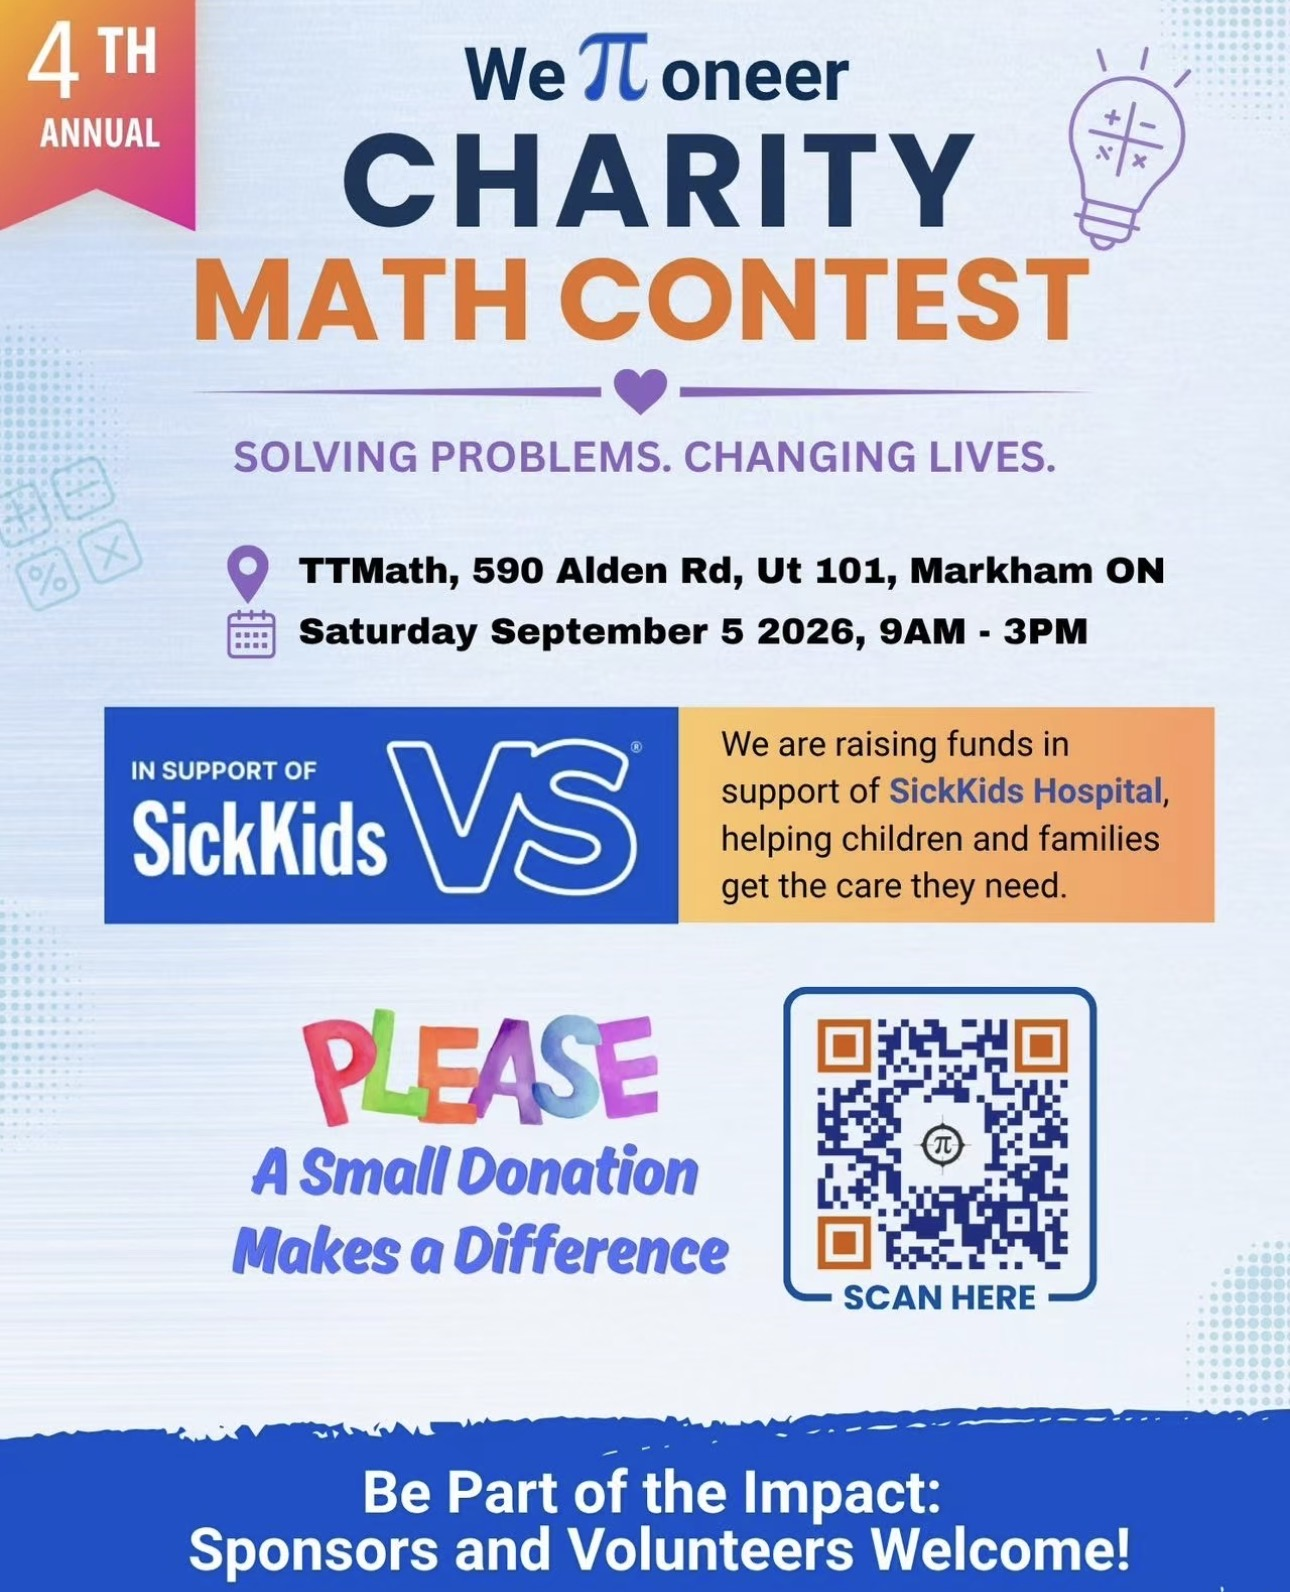
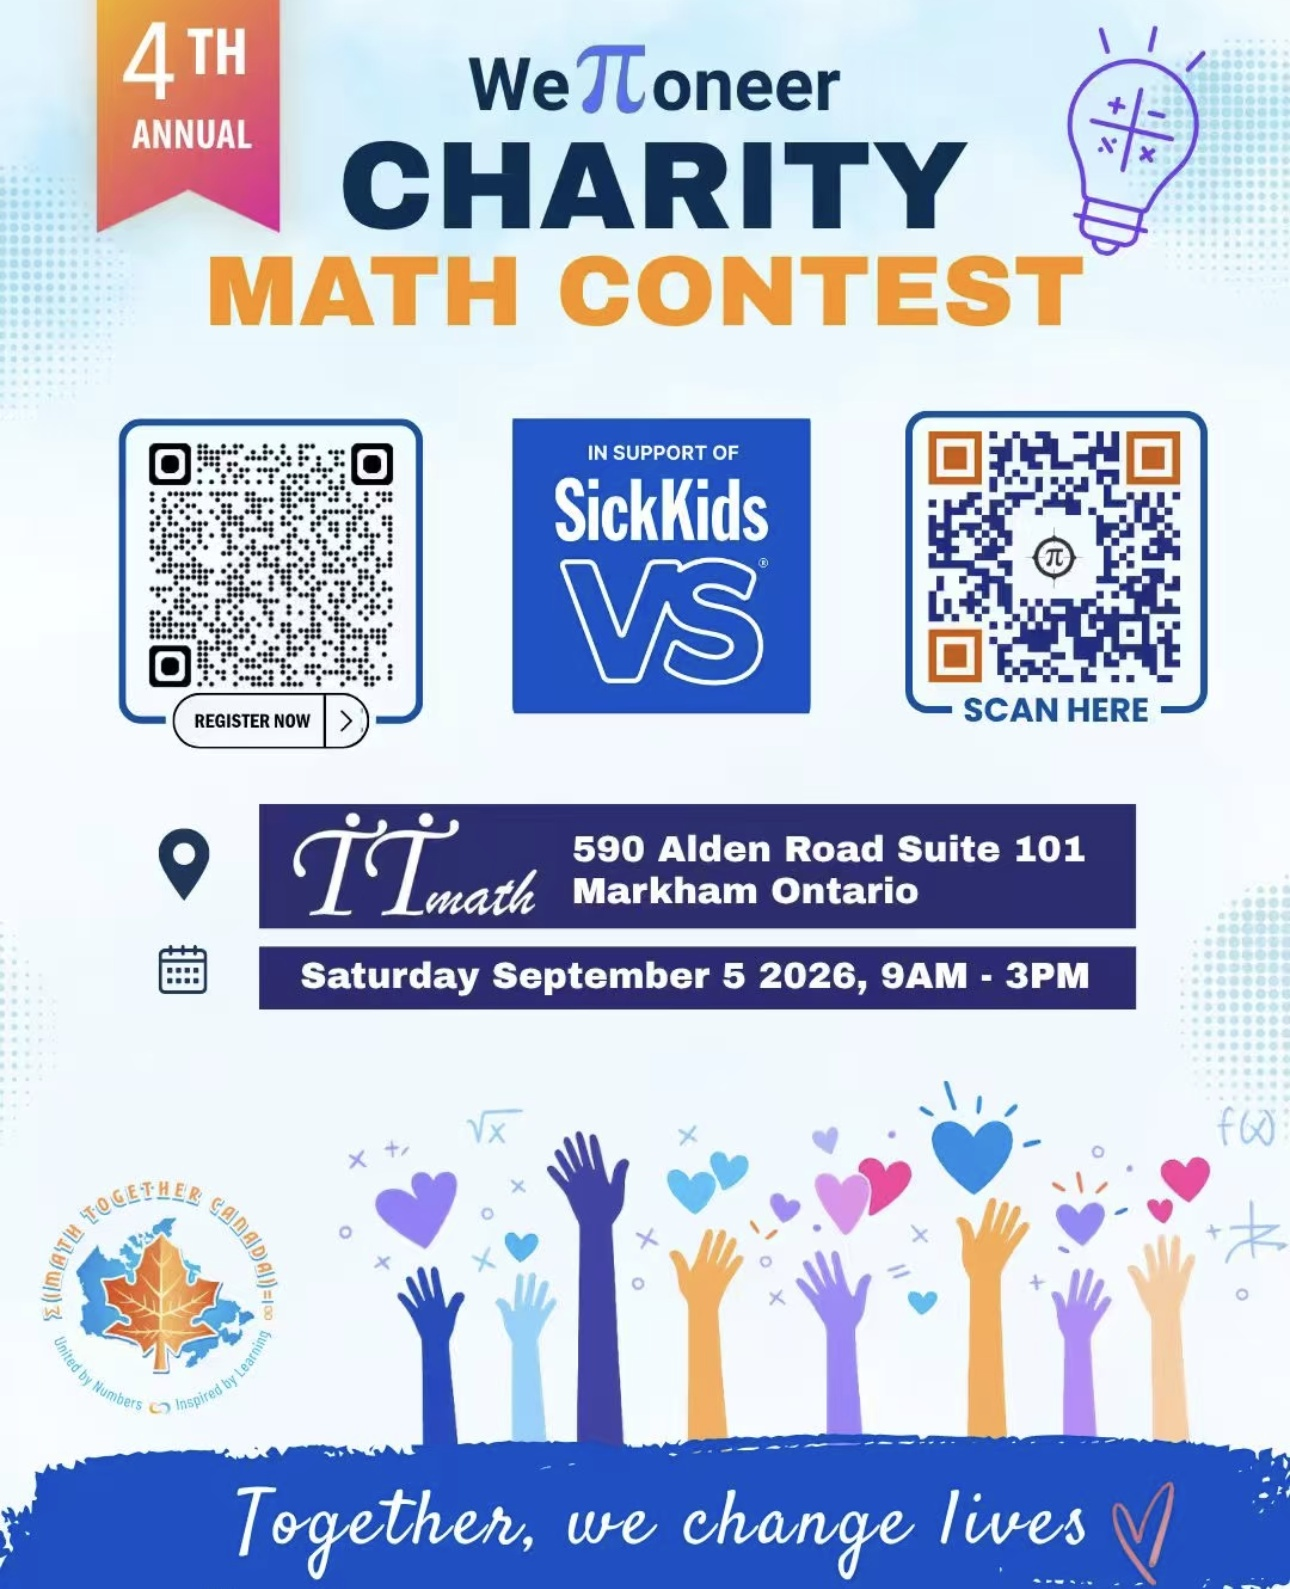
Update the We Pi(π)oneer 2026 poster (#11)
Replaces the contest flyer with the version uploaded in 7e3642b, which
carries both QR codes (Register Now and Scan Here), the TTmath address
block and the "Together, we change lives" footer. Both 2026 contest cards
share this file, so both pick it up.

The upload was a 1.8 MB RGBA screenshot; it is flattened and re-encoded as
JPEG at quality 95 (401 KB, in line with the file it replaces) and saved
over news-charity-2026.jpg, so no markup changes. Decoding the poster's QR
from the JPEG returns the same URL as from the source PNG.

Poster ratio updated 1290/1592 -> 1290/1589 for the new dimensions.

Claude-Session: https://claude.ai/code/session_012wFmwpyvfvP4ZNCCDu83Aa

diff --git a/style.css b/style.css
@@ -609,12 +609,12 @@ h3.sub{margin:30px 0 12px;font-size:23px}
 }
 .story-dialog img.poster-contain{
   object-fit:contain;background:#f4f6fc;height:auto;
-  aspect-ratio:var(--poster-ratio,1290/1592);max-height:70vh;
+  aspect-ratio:var(--poster-ratio,1290/1589);max-height:70vh;
 }
 /* a card with room to spare shows its whole flyer, QR code and all, rather than a crop */
 .story img.poster-full{
   object-fit:contain;background:#f4f6fc;height:auto;
-  aspect-ratio:var(--poster-ratio,1290/1592);
+  aspect-ratio:var(--poster-ratio,1290/1589);
 }
 .story h3{font-size:18px;padding:14px 18px 2px}
 .story .date{font-size:11px;font-weight:600;letter-spacing:.1em;
